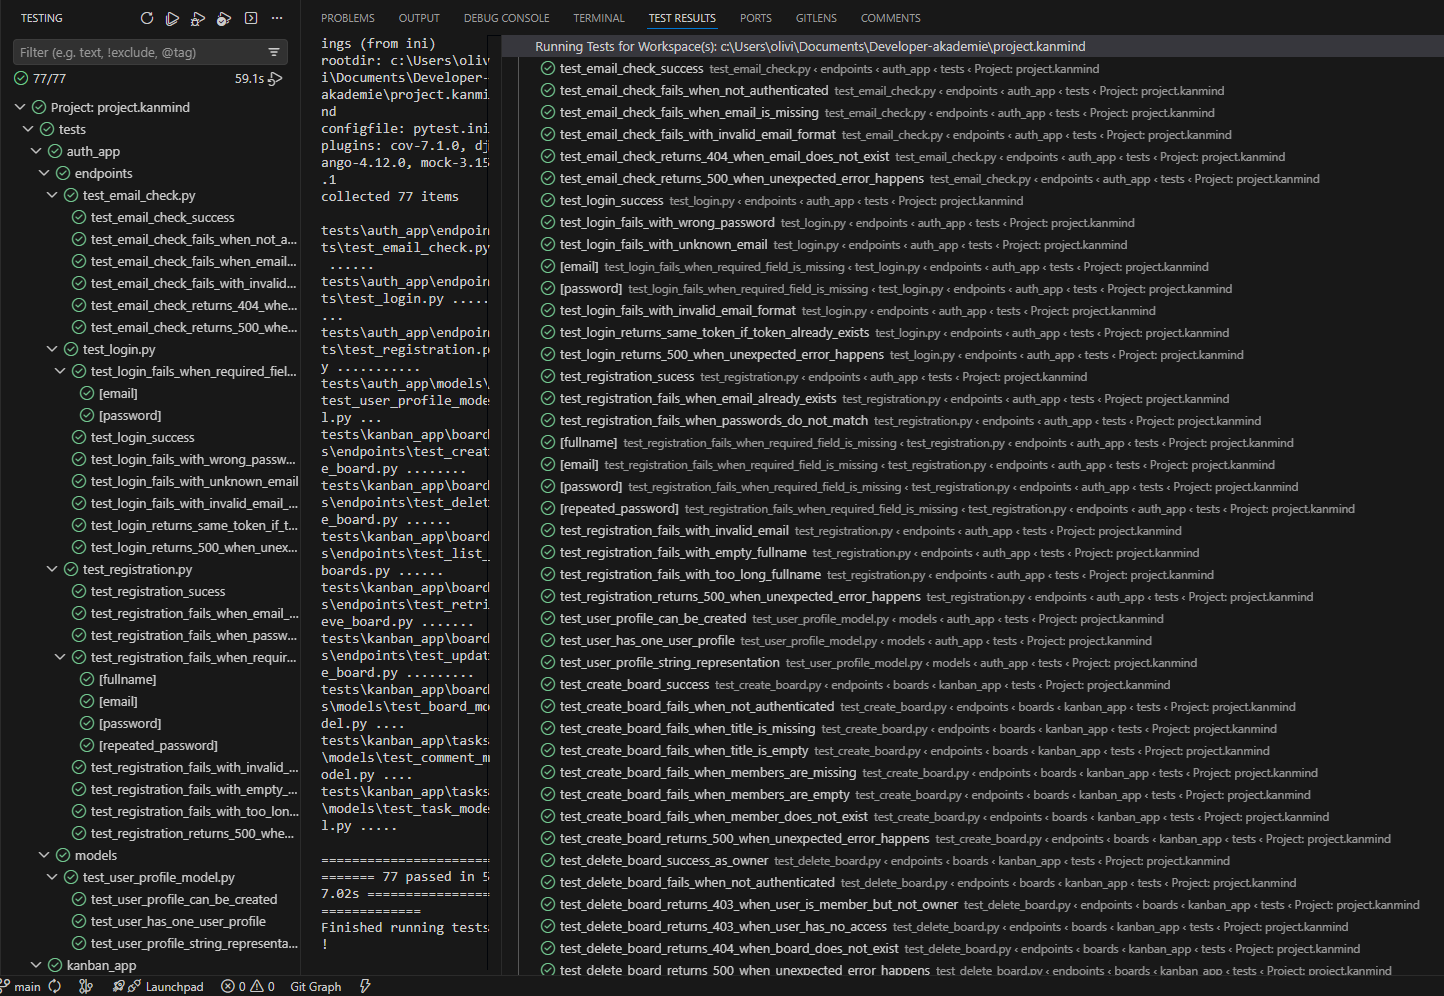
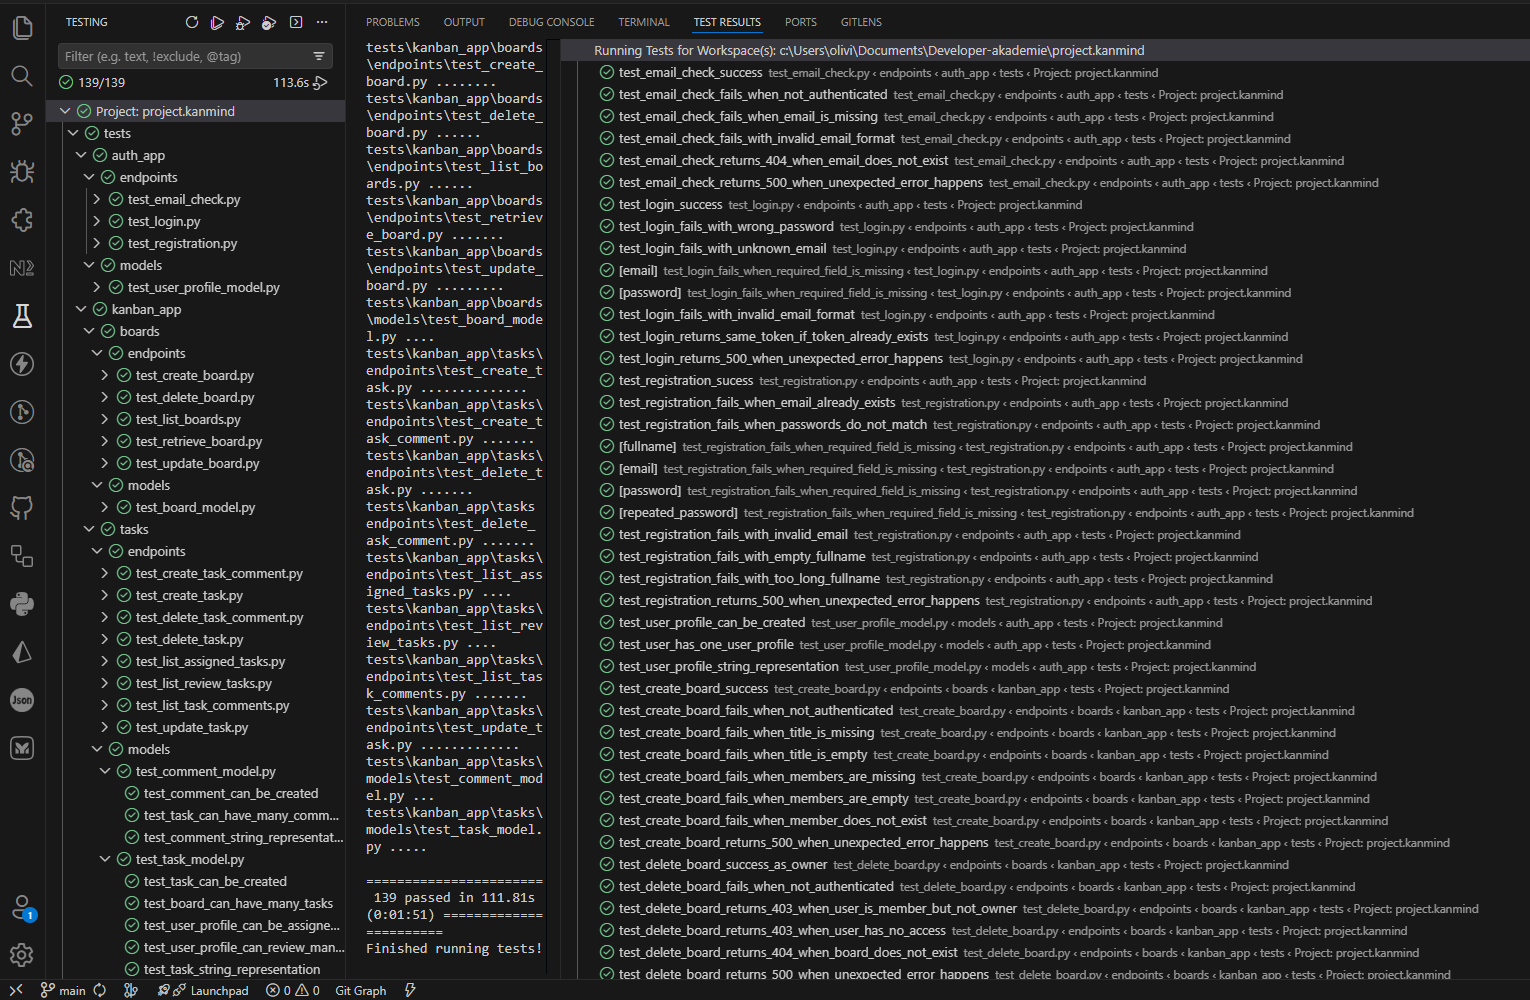
docs: update README with project directory navigation and remove superuser credentials

Changed region(s): [[0.0, 0.0, 1.0, 1.0]]

diff --git a/README.md b/README.md
@@ -43,6 +43,8 @@ KanMind provides authentication, board management, task workflows, and comment c
 ```bash
 git clone https://github.com/Olivierentwicklung/project.kanmind.git
 
+cd project.kanmind
+
 python -m venv .venv
 
 # Linux / macOS
@@ -71,13 +73,6 @@ python manage.py runserver
 
   ```bash
    In Browser: http://127.0.0.1:8000/admin/
-  ```
-
-- Superuser credentials
-
-  ```bash
-   Username: superuser
-   Password: a
   ```
 
 ---
